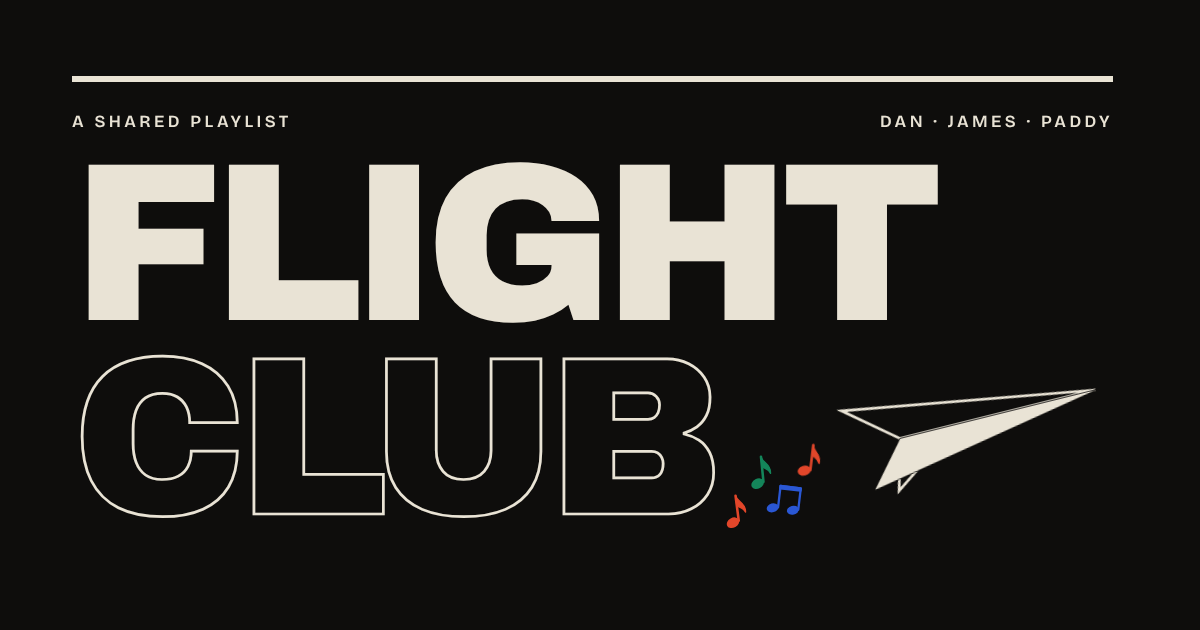
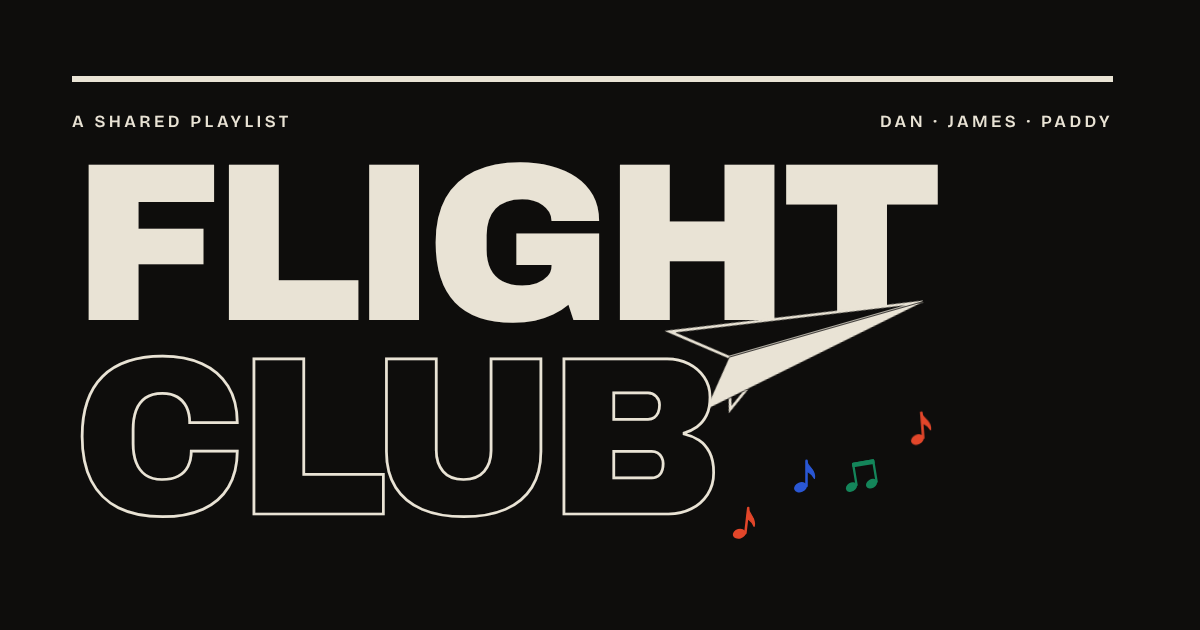
Link preview: plane between the lines, behind CLUB and in front of FLIGHT
Claude-Session: https://claude.ai/code/session_014eqggfxNgUNb2329wWe9M1

Changed region(s): [[0.6783, 0.6032, 0.925, 0.7841], [0.555, 0.4825, 0.7708, 0.6635], [0.5858, 0.7238, 0.6783, 0.8444]]

diff --git a/index.html b/index.html
@@ -13,11 +13,11 @@
 <meta property="og:title" content="Flight Club">
 <meta property="og:description" content="Three friends, one shared playlist.">
 <meta property="og:url" content="https://flightclub.danwalker.site/">
-<meta property="og:image" content="https://flightclub.danwalker.site/og.png?v=2">
+<meta property="og:image" content="https://flightclub.danwalker.site/og.png?v=3">
 <meta property="og:image:type" content="image/png">
 <meta property="og:image:width" content="1200">
 <meta property="og:image:height" content="630">
-<meta property="og:image:alt" content="Flight Club, in big letters on two lines, with a paper plane climbing away trailing music notes">
+<meta property="og:image:alt" content="Flight Club, in big letters on two lines, with a paper plane tucked between the two lines, trailing music notes">
 <meta name="twitter:card" content="summary_large_image">
 <link rel="icon" href="favicon.svg" type="image/svg+xml">
 <link rel="icon" href="favicon-32.png" type="image/png" sizes="32x32">
